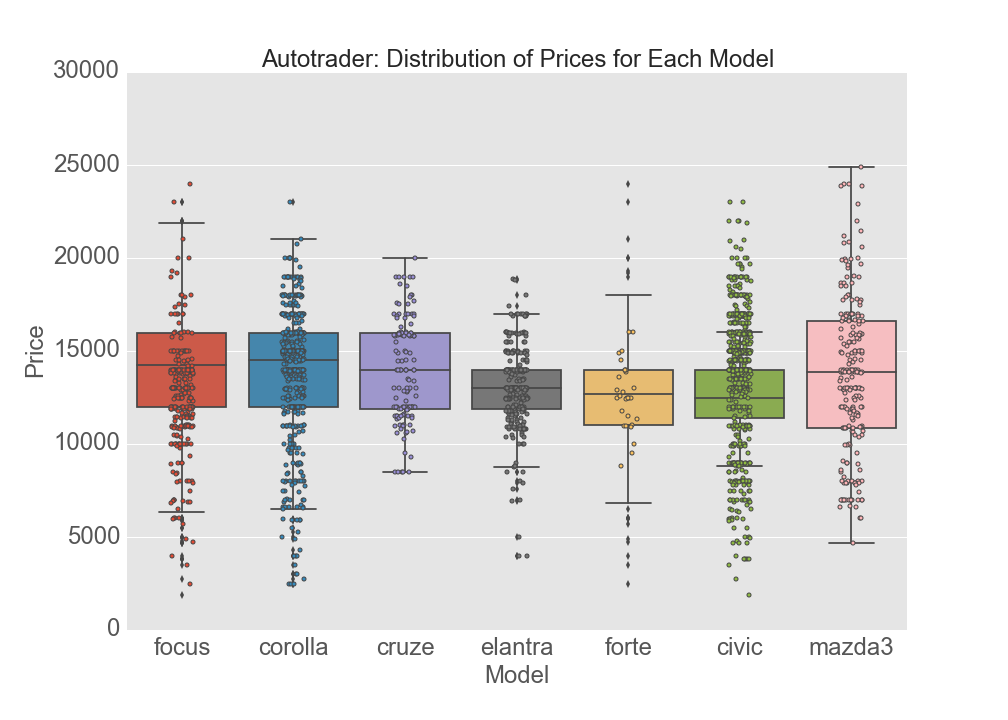
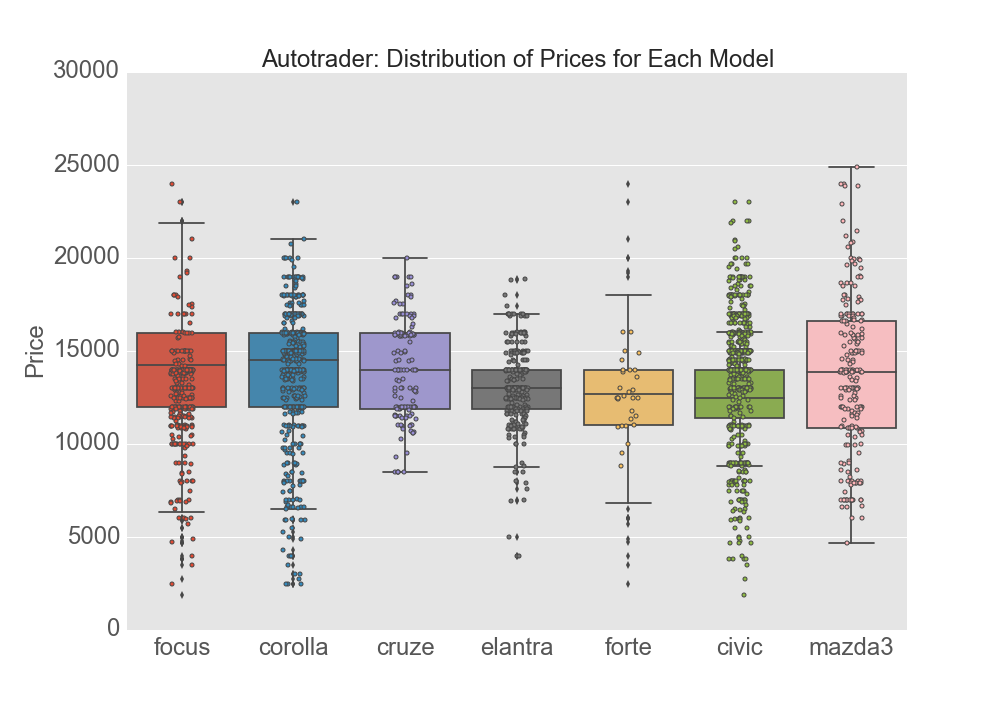
Filter any car priced above 80000, all of them were typos, fixed price distribution figures and deals

diff --git a/model/encode.py b/model/encode.py
@@ -126,7 +126,7 @@ class Encode():
                 self.df = self.df[self.df['condition'] != 'salvage']
 
                 # Filter ridiculous prices
-                self.df = self.df[self.df['price'] > 1000]
+                self.df = self.df[(self.df['price'] > 1000) & (self.df['price'] < 80000) ]
 
             # Autotrader df
             else:
